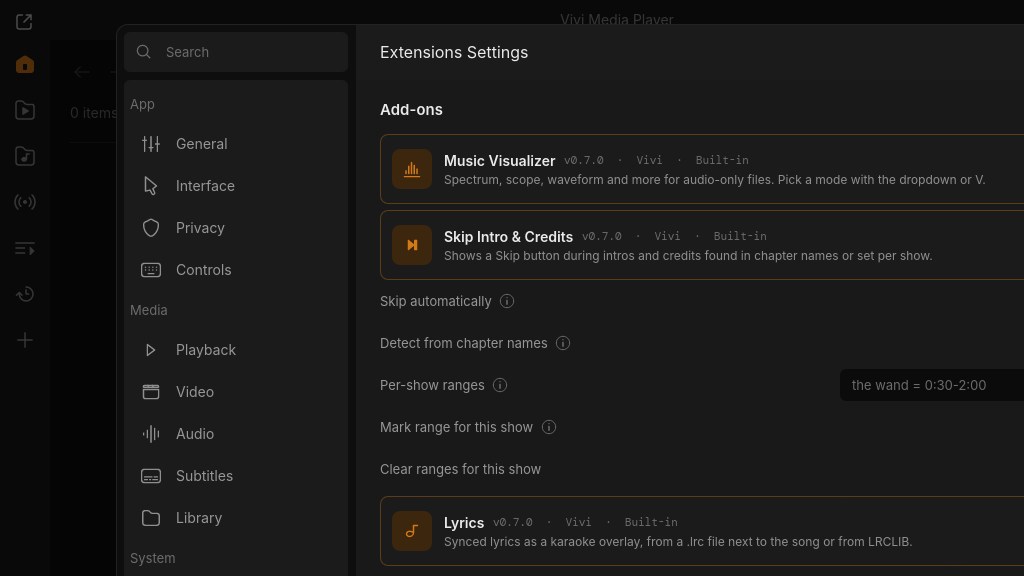
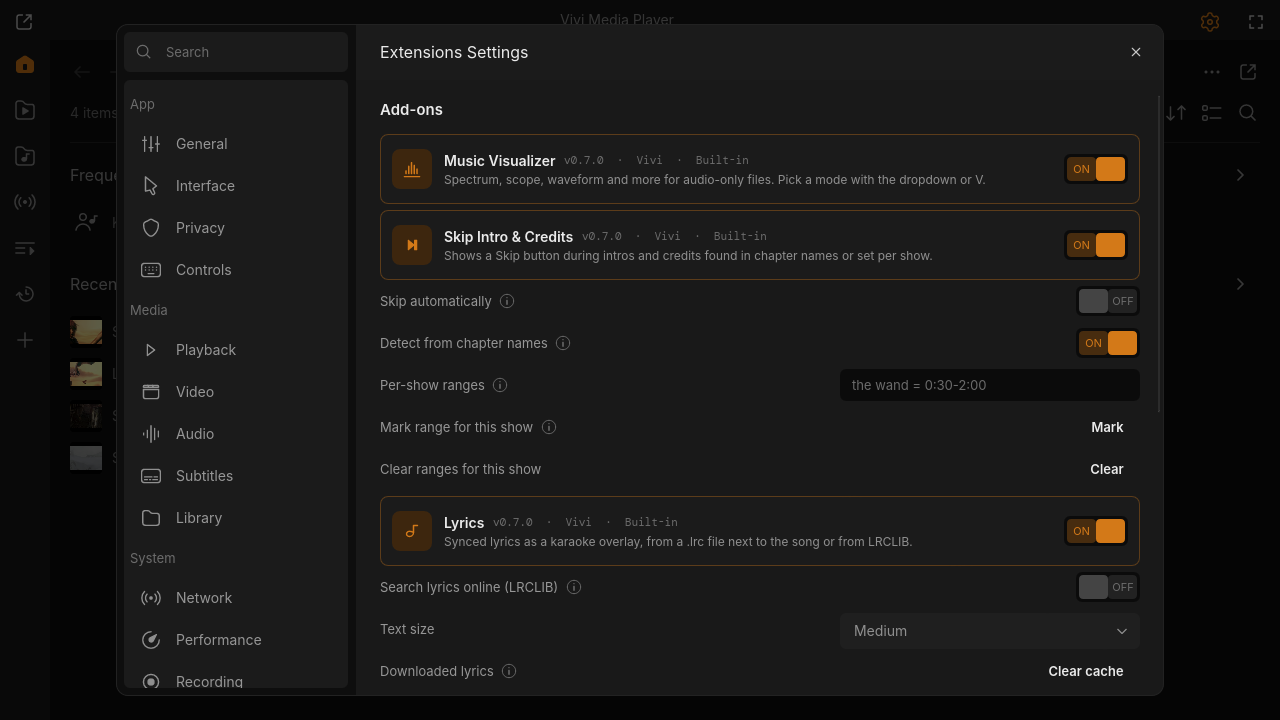
Regenerate screenshots with Sintel and CC music; VIVI_SCREENSHOT enables helpers in release

diff --git a/src/main.rs b/src/main.rs
@@ -56,7 +56,7 @@ fn main() -> Result<(), Box<dyn std::error::Error>> {
     mini::setup(&app, cfg.clone());
     viz::setup(&app, &player);
     plugins::setup(&app, &player, cfg.clone());
-    if cfg!(debug_assertions) {
+    if screenshot_mode() {
         debug_ui(&app);
     }
 
@@ -565,7 +565,7 @@ fn side_panel(app: &AppWindow, player: &Rc<Player>, log: bool) {
         app.set_panel_tab(t.parse().unwrap_or(0));
         app.set_panel_open(true);
     }
-    if cfg!(debug_assertions) {
+    if screenshot_mode() {
         if let Some(v) = std::env::var("VIVI_VOLUME")
             .ok()
             .and_then(|v| v.parse::<f64>().ok())
@@ -625,7 +625,13 @@ fn side_panel(app: &AppWindow, player: &Rc<Player>, log: bool) {
     }
 }
 
-/// Debug builds only: open dialogs from env vars for screenshots/tests.
+/// Debug builds, or release builds started with `VIVI_SCREENSHOT=1`: the env-driven UI
+/// helpers below (used to capture docs/screenshots) are active.
+fn screenshot_mode() -> bool {
+    cfg!(debug_assertions) || std::env::var_os("VIVI_SCREENSHOT").is_some()
+}
+
+/// Debug builds (or `VIVI_SCREENSHOT=1`): open dialogs from env vars for screenshots/tests.
 /// VIVI_SETTINGS=<category> [VIVI_ADVANCED=1] [VIVI_SEARCH=text], VIVI_CUSTOMIZE=<profile>,
 /// VIVI_ONBOARDING=<step>, VIVI_LIB=<nav>, VIVI_LIBQ=<search>, VIVI_NETWORK, VIVI_URL=<url>, VIVI_LIBRARY,
 /// VIVI_MENU, VIVI_SUB, VIVI_SUBS (Add Subtitles dialog).
